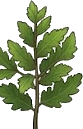
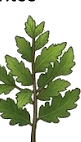
Mejorar la visualizacion del fondo de tierra en mosaico con viñeta, suavizar los bordes del hoyo de excavacion y perfeccionar la integracion de la planta de Lenga

diff --git a/ui.js b/ui.js
@@ -940,6 +940,41 @@ class GameUI {
       particles = particles.filter(p => p.alpha > 0);
     };
 
+    const drawBackgroundAndHoyo = (ctx, stepNum) => {
+      ctx.clearRect(0, 0, 344, 170);
+
+      // 1. Tiled Soil Background
+      if (imgSuelo && imgSuelo.width > 0) {
+        for (let x = 0; x < 344; x += imgSuelo.width) {
+          for (let y = 0; y < 170; y += imgSuelo.height) {
+            ctx.drawImage(imgSuelo, x, y);
+          }
+        }
+      } else {
+        ctx.fillStyle = '#21130d';
+        ctx.fillRect(0, 0, 344, 170);
+      }
+
+      // Vignette effect around edges
+      const grad = ctx.createRadialGradient(172, 85, 80, 172, 85, 180);
+      grad.addColorStop(0, 'rgba(0,0,0,0)');
+      grad.addColorStop(1, 'rgba(0,0,0,0.65)');
+      ctx.fillStyle = grad;
+      ctx.fillRect(0, 0, 344, 170);
+
+      // 2. Hoyo excavado (Pit Hole) for steps >= 2
+      if (stepNum >= 2) {
+        if (imgHoyo && imgHoyo.width > 0) {
+          ctx.drawImage(imgHoyo, 92, 60, 160, 100);
+        } else {
+          ctx.fillStyle = '#0a0504';
+          ctx.beginPath();
+          ctx.ellipse(172, 110, 50, 25, 0, 0, Math.PI * 2);
+          ctx.fill();
+        }
+      }
+    };
+
     if (step === 1) {
       if (tagEl) tagEl.textContent = 'PASO 1 DE 4';
       controlsEl.innerHTML = `
@@ -959,9 +994,7 @@ class GameUI {
         this.step1NeedlePos = needlePos;
 
         if (ctx) {
-          ctx.clearRect(0, 0, 344, 170);
-          if (imgSuelo) ctx.drawImage(imgSuelo, 0, 0, 344, 170);
-          else { ctx.fillStyle = '#3e2723'; ctx.fillRect(0, 0, 344, 170); }
+          drawBackgroundAndHoyo(ctx, 1);
 
           // Animación de inclinación ligera de la pala al oscilar
           const palaTilt = Math.sin(Date.now() * 0.008) * 0.15;
@@ -1019,18 +1052,12 @@ class GameUI {
         this.step2Offset = { dx, dy };
 
         if (ctx) {
-          ctx.clearRect(0, 0, 344, 170);
-          if (imgSuelo) ctx.drawImage(imgSuelo, 0, 0, 344, 170);
-          else { ctx.fillStyle = '#3e2723'; ctx.fillRect(0, 0, 344, 170); }
+          drawBackgroundAndHoyo(ctx, 2);
 
-          // Hoyo excavado
-          if (imgHoyo) ctx.drawImage(imgHoyo, 136, 75, 72, 72);
-          else { ctx.fillStyle = '#1b0000'; ctx.beginPath(); ctx.ellipse(172, 110, 35, 18, 0, 0, Math.PI * 2); ctx.fill(); }
-
-          // Planta flotando suavemente sobre el hoyo (SIN MACETA)
-          const floatY = 22 + Math.sin(t * 4) * 4;
+          // Planta de Lenga flotando suavemente sobre el hoyo (SIN MACETA)
+          const floatY = 25 + Math.sin(t * 4) * 4;
           if (imgPlanta) {
-            ctx.drawImage(imgPlanta, 142, floatY, 60, 75);
+            ctx.drawImage(imgPlanta, 142, floatY, 60, 80);
           }
 
           // Mirilla orbitando
@@ -1078,14 +1105,10 @@ class GameUI {
         this.step3RingRadius = radius;
 
         if (ctx) {
-          ctx.clearRect(0, 0, 344, 170);
-          if (imgSuelo) ctx.drawImage(imgSuelo, 0, 0, 344, 170);
-          else { ctx.fillStyle = '#3e2723'; ctx.fillRect(0, 0, 344, 170); }
+          drawBackgroundAndHoyo(ctx, 3);
 
-          if (imgHoyo) ctx.drawImage(imgHoyo, 136, 75, 72, 72);
-
-          // Planta de Lenga directamente plantada en el suelo (SIN MACETA)
-          if (imgPlanta) ctx.drawImage(imgPlanta, 142, 40, 60, 75);
+          // Planta de Lenga directamente plantada en el hoyo (SIN MACETA)
+          if (imgPlanta) ctx.drawImage(imgPlanta, 142, 35, 60, 80);
 
           // Anillos concéntricos de ritmo con pulso y sombra brillante
           const color = this.step3RingCycle === 1 ? '#00C853' : (this.step3RingCycle === 2 ? '#eab308' : '#ff9800');
@@ -1122,21 +1145,18 @@ class GameUI {
 
       const loopStep4 = () => {
         if (!this.reforestActive || this.reforestStep !== 4) return;
-        if (this.mallaInstalled && animMallaY < 40) {
-          animMallaY += (40 - animMallaY) * 0.18;
-          if (Math.abs(40 - animMallaY) < 1) {
-            animMallaY = 40;
+        if (this.mallaInstalled && animMallaY < 35) {
+          animMallaY += (35 - animMallaY) * 0.18;
+          if (Math.abs(35 - animMallaY) < 1) {
+            animMallaY = 35;
             addBurst(172, 100, '#00C853', 15);
           }
         }
 
         if (ctx) {
-          ctx.clearRect(0, 0, 344, 170);
-          if (imgSuelo) ctx.drawImage(imgSuelo, 0, 0, 344, 170);
-          else { ctx.fillStyle = '#3e2723'; ctx.fillRect(0, 0, 344, 170); }
+          drawBackgroundAndHoyo(ctx, 4);
 
-          if (imgHoyo) ctx.drawImage(imgHoyo, 136, 75, 72, 72);
-          if (imgPlanta) ctx.drawImage(imgPlanta, 142, 40, 60, 75);
+          if (imgPlanta) ctx.drawImage(imgPlanta, 142, 35, 60, 80);
 
           if (this.mallaInstalled) {
             if (imgMalla) ctx.drawImage(imgMalla, 136, animMallaY, 72, 85);
